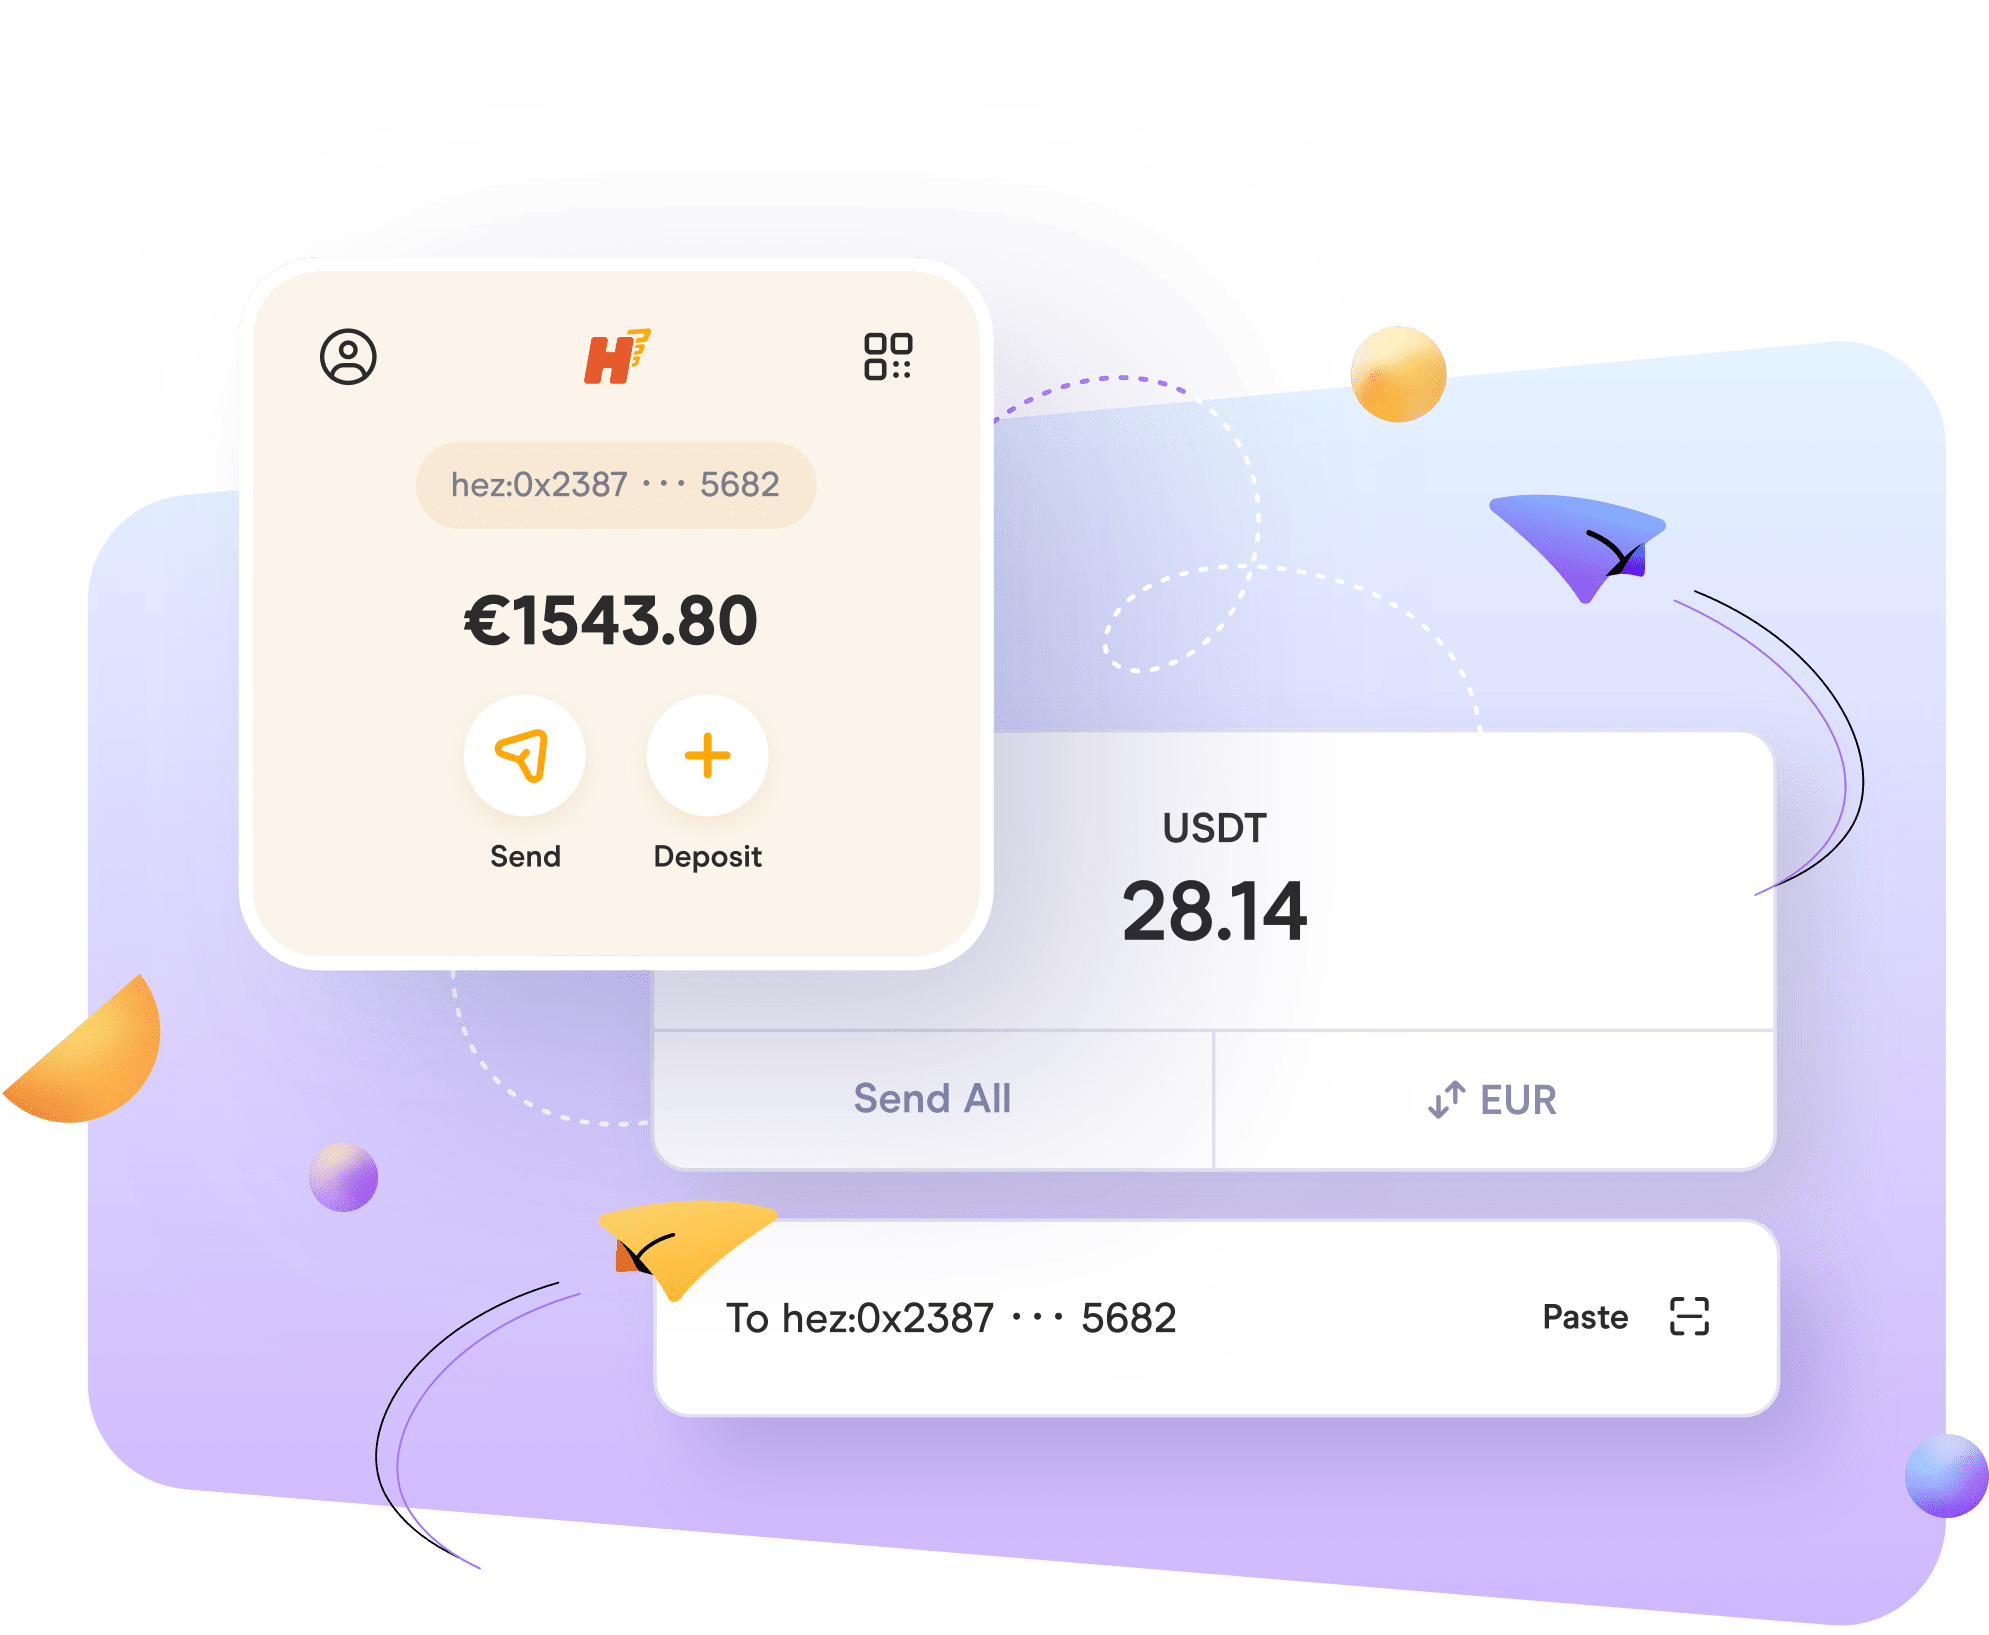
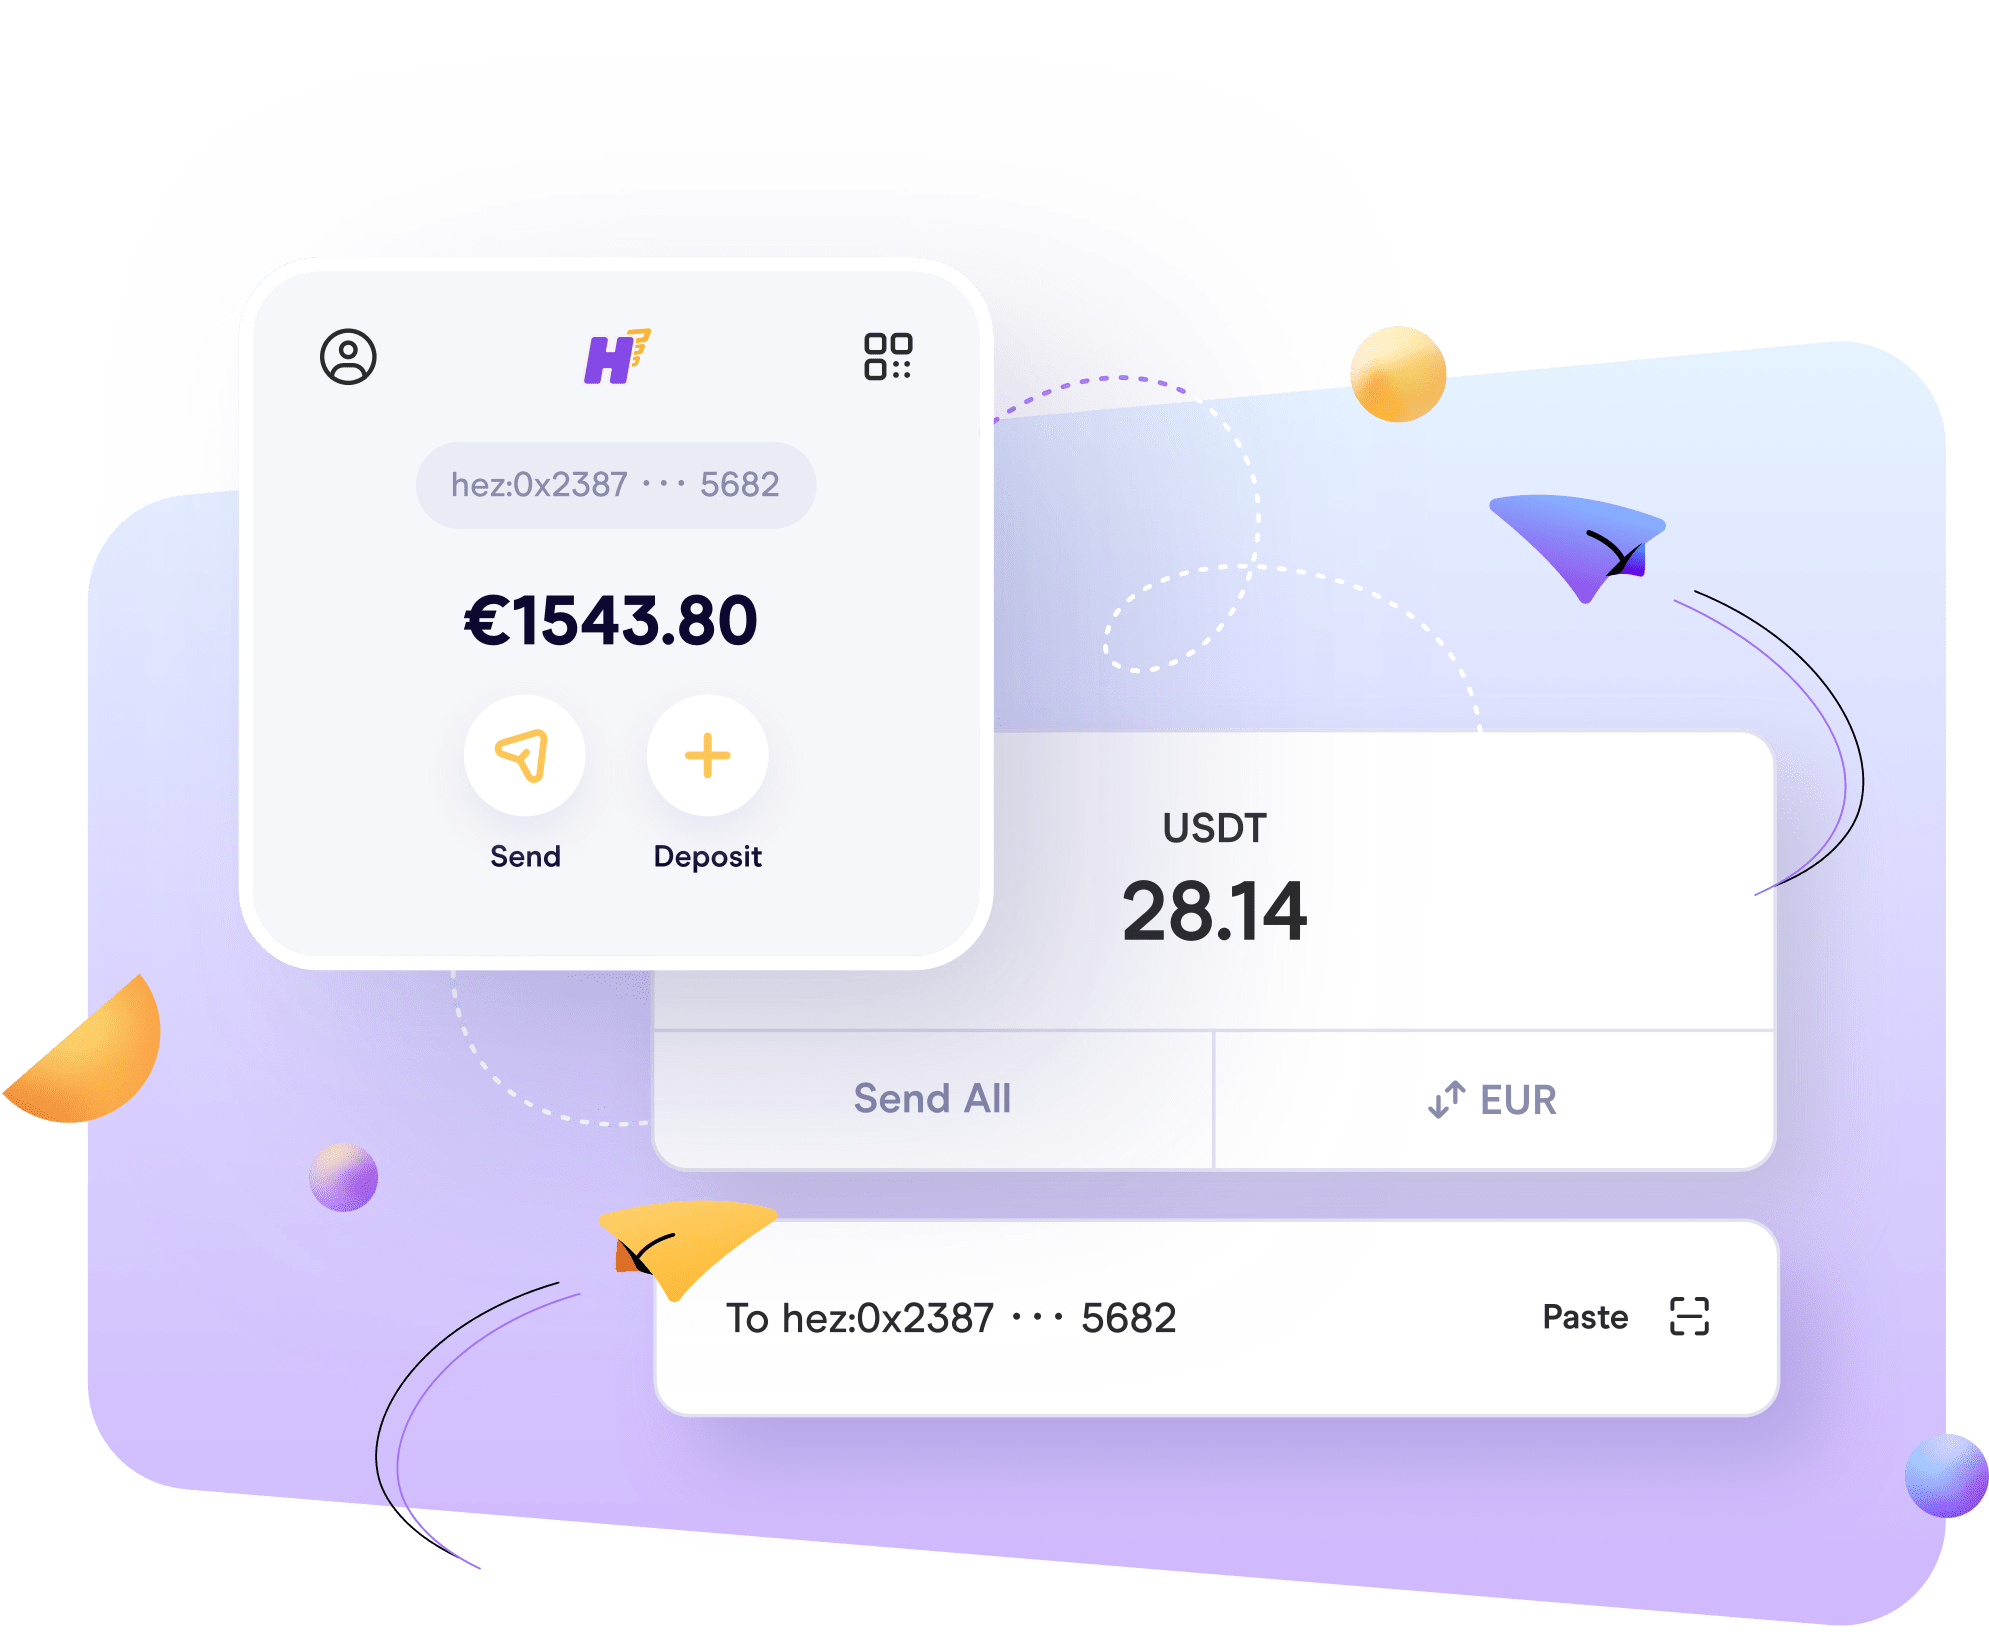
design changes and updates

diff --git a/src/components/mailchimp-form/mailchimp-form.styles.js b/src/components/mailchimp-form/mailchimp-form.styles.js
@@ -5,7 +5,7 @@ const useMailchimpFormStyles = createUseStyles(theme => ({
     width: '100%',
     backgroundPosition: 'center',
     backgroundRepeat: 'no-repeat',
-    backgroundImage: 'url(./discord-link-background-mobile.svg)',
+    backgroundImage: 'url(./mailchimp-link-background-mobile.svg)',
     borderRadius: theme.spacer * 3,
     backgroundSize: 'cover',
     padding: `${theme.spacer * 3}px ${theme.spacer * 1.75}px ${theme.spacer * 2}px`,

diff --git a/src/styles/theme.js b/src/styles/theme.js
@@ -5,7 +5,7 @@ module.exports = {
       main: '#dee0e9'
     },
     white: '#ffffff',
-    black: '#2b2b2b',
+    black: '#081132',
     gray: {
       lighter: '#8d95a3',
       light: '#778499',
